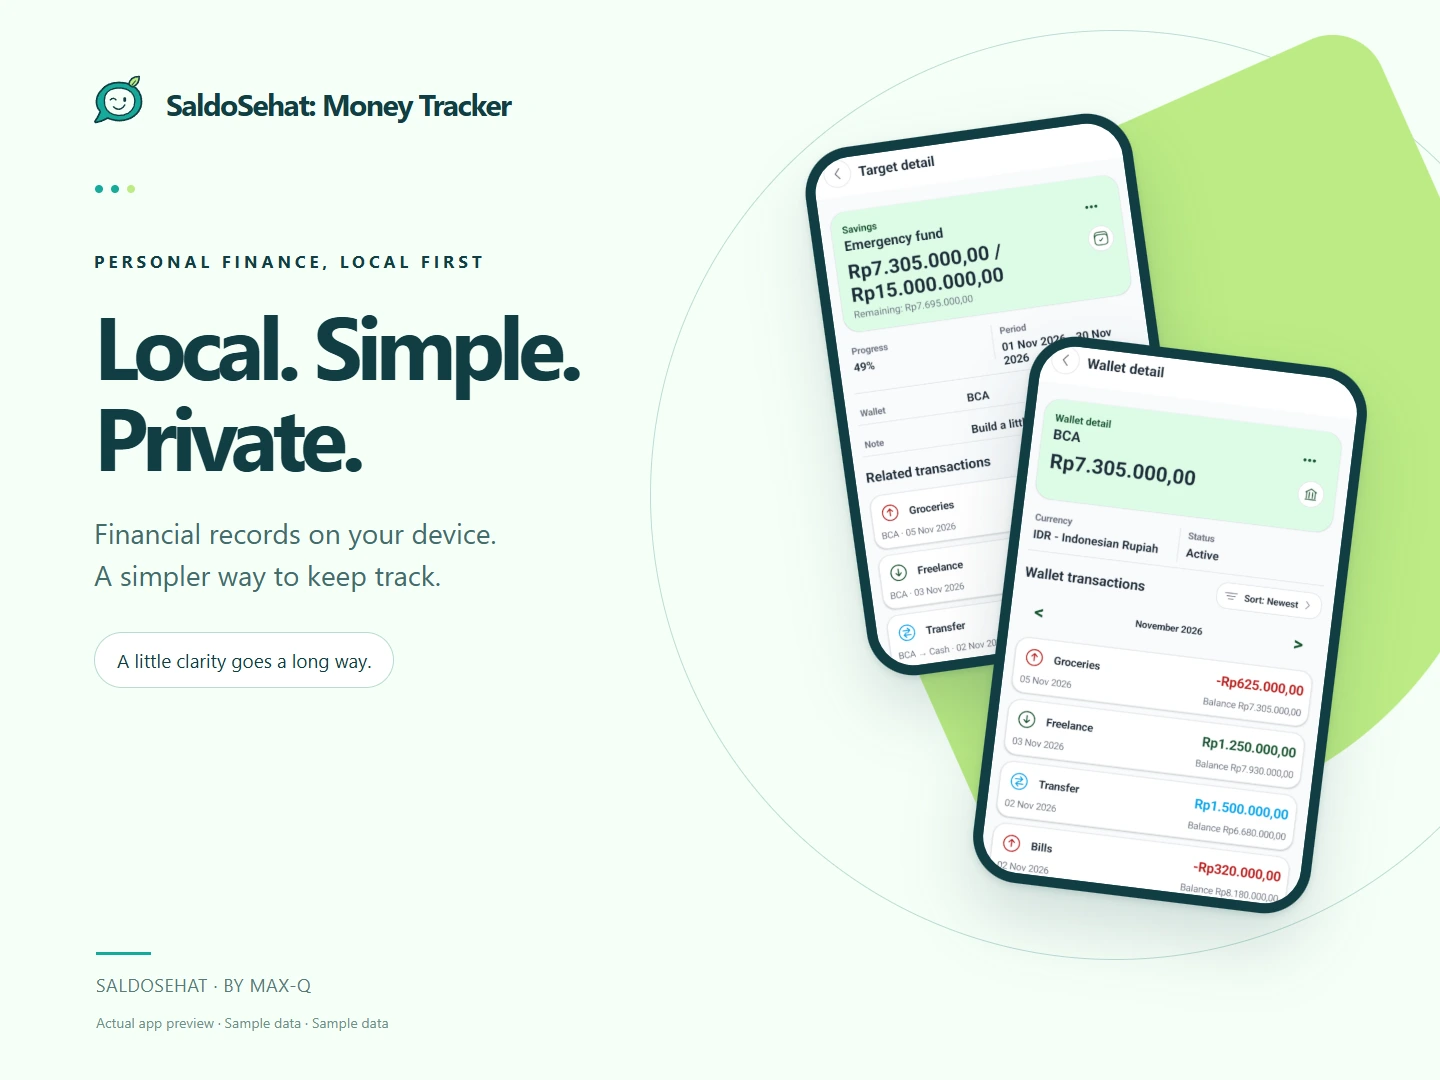
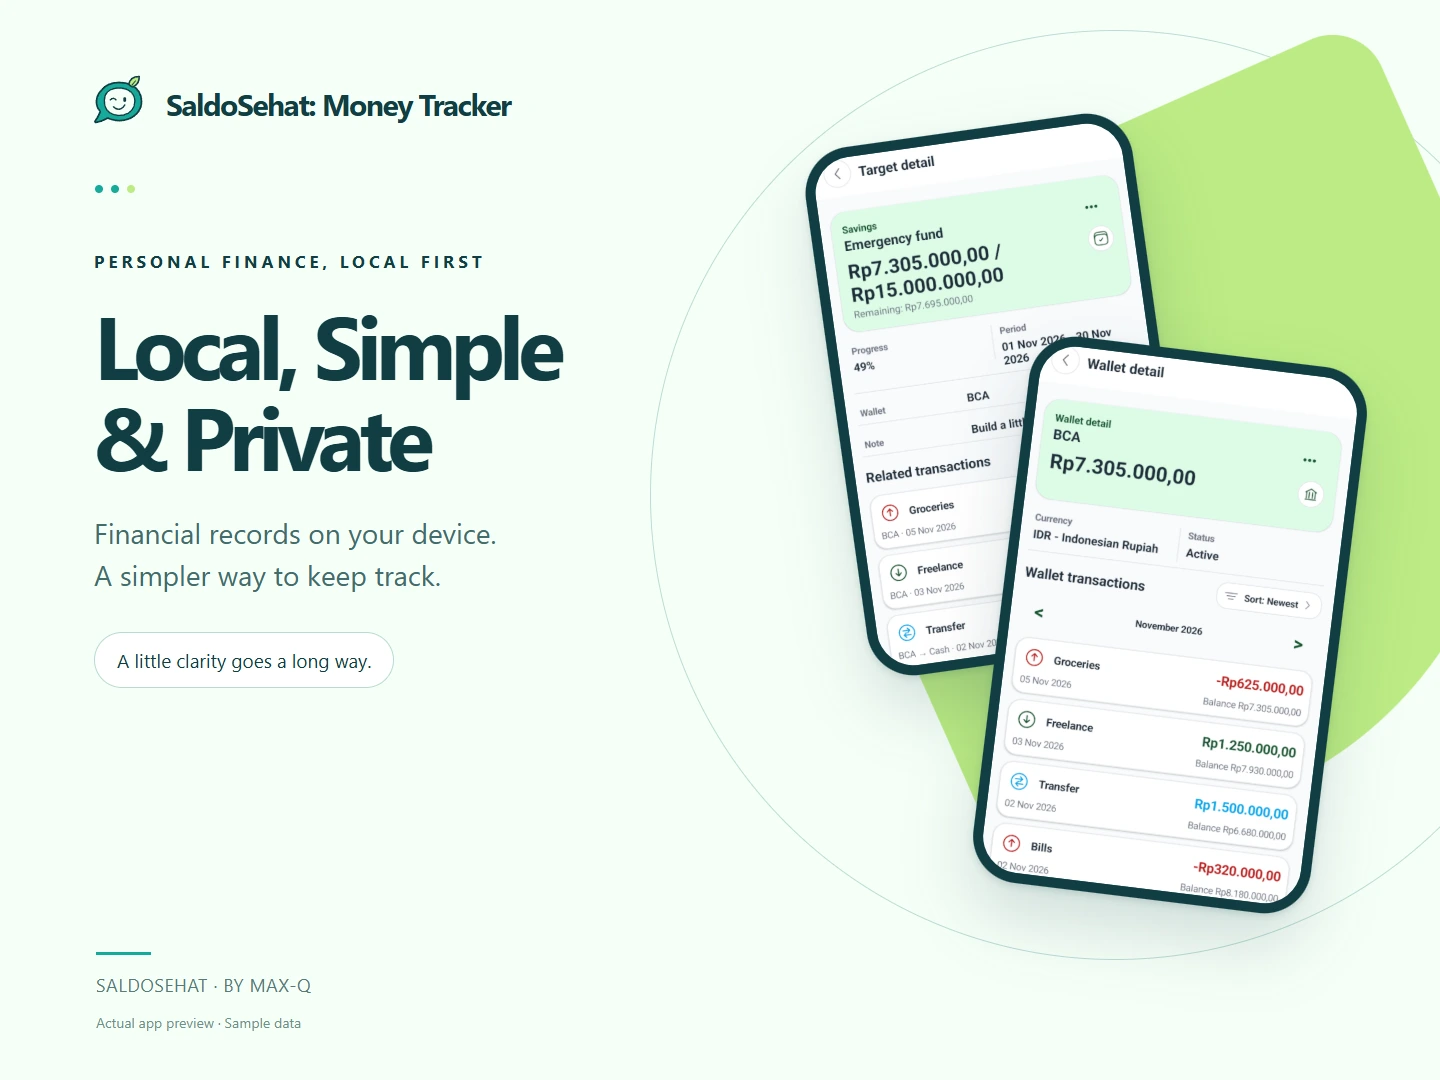
Refine SaldoSehat headline typography

Changed region(s): [[0.0625, 0.3361, 0.3125, 0.4583], [0.375, 0.3361, 0.4062, 0.3667]]

diff --git a/saldosehat/index.html b/saldosehat/index.html
@@ -7,7 +7,7 @@
   <meta name="description" content="SaldoSehat: Money Tracker helps you organize wallets, income, spending, savings targets and budgets in one local-first Android app." />
   <meta name="theme-color" content="#F6FFF8" />
   <meta property="og:title" content="SaldoSehat: Money Tracker" />
-  <meta property="og:description" content="Local. Simple. Private. A money tracker with financial records stored on your device." />
+  <meta property="og:description" content="Local, Simple &amp; Private A money tracker with financial records stored on your device." />
   <meta property="og:image" content="https://maxqstudio.dev/images/saldosehat/overview.webp" />
   <link rel="canonical" href="https://maxqstudio.dev/saldosehat/index.html" />
   <link rel="icon" type="image/svg+xml" href="../images/saldosehat-mascot.svg" />
@@ -75,7 +75,7 @@
       <div class="container hero-grid">
         <div class="hero-copy reveal">
           <p class="eyebrow">SaldoSehat: Money Tracker</p>
-          <h1>Local. Simple.<br>Private.</h1>
+          <h1>Local, Simple<br>&amp; Private</h1>
           <p>
             Your financial records stay on your device. Track everyday money in a simple way, with local backups under your control.
           </p>
